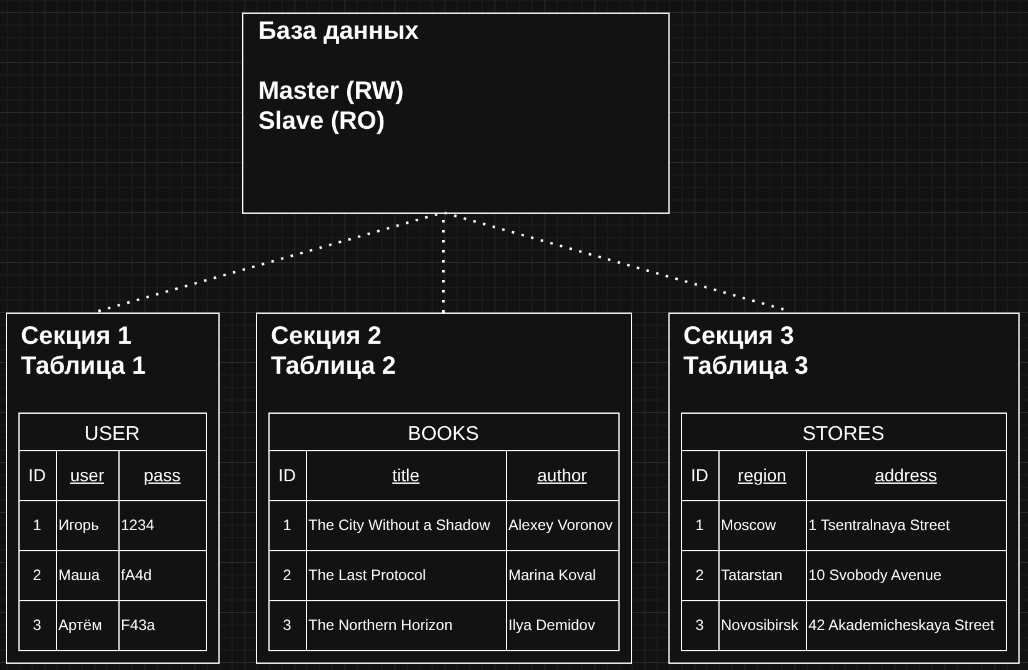
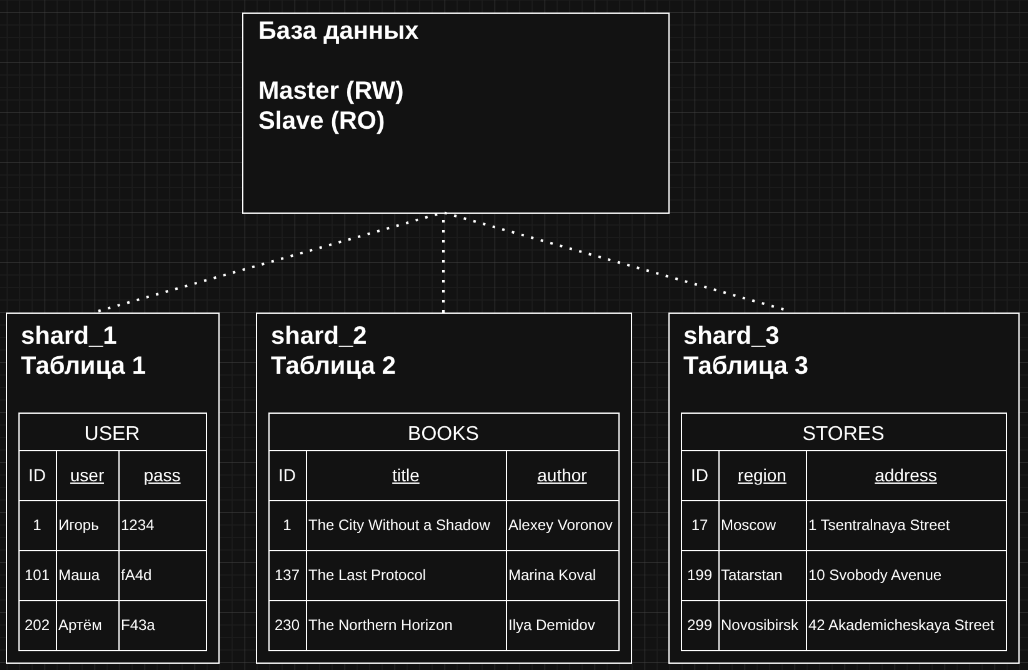
2.0.0

diff --git a/README.md b/README.md
@@ -64,11 +64,20 @@
 
 Режимы работы: 
 
-* Master: read / write - является единственной точкой записи
-* Slave: read-only - снижает нагрузку на Master. Подходит для отчётов и аналитики
+* **Master: read / write** - работает в режиме чтения и записи, является единственной точкой записи в базе данных.
+* **Slave: read-only** - работает в режиме только чтения, используется для выполнения SELECT-запросов, отчётов и аналитики, снижая нагрузку на Master.
 
-Вертикальный шардинг реализован внутри одной базы данных путём логического разделения данных по таблицам (users, books, stores), каждая из которых представляет отдельную бизнес-сущность.
+Вертикальный шардинг реализован внутри одной базы данных путём логического разделения данных по таблицам **users**, **books** и **stores**. Каждая таблица представляет отдельную бизнес-сущность и обрабатывается независимо с точки зрения логики приложения.
 
 **Горизонтальный шардинг:**
 
 Блоксхема:
+
+![img](img/screenshot_2.png)
+
+Режимы работы: 
+
+* **Master: read / write** - обрабатывает операции чтения и записи только для данных, относящихся к своему шарду.
+* **Slave: read-only** - работает в режиме только чтения и используется для SELECT-запросов, аналитики и отчётов, снижая нагрузку на Master соответствующего шарда.
+
+Горизонтальный шардинг реализован внутри одной базы данных путём разделения строк в таблицах **users**, **books** и **stores** по диапазонам идентификаторов (ID). Каждый шард содержит одинаковую структуру таблиц, но хранит только часть данных, относящихся к своему диапазону значений.
